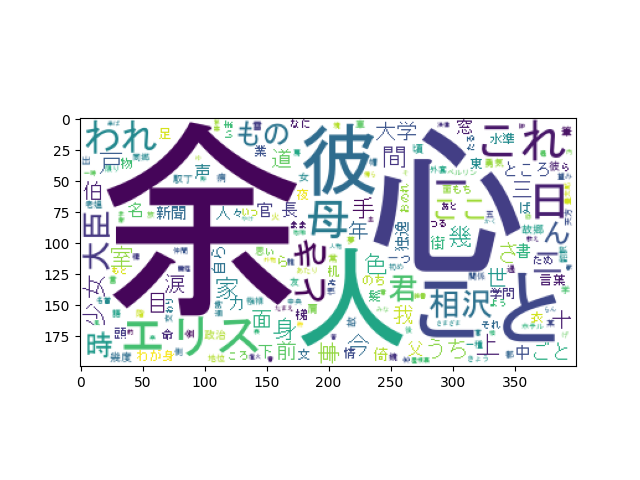
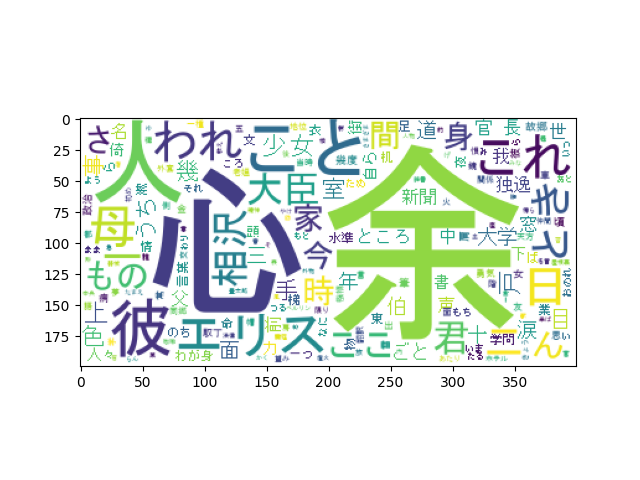
修正

Changed region(s): [[0.125, 0.25, 0.9062, 0.7812]]

diff --git a/question5_2/__init__.py b/question5_2/__init__.py
@@ -18,8 +18,8 @@ t = Tokenizer()
 token = t.tokenize(txt)
 word_list = []
 for line in token:
-    tmp = re.split('\t', str(line))
-    if '名詞' in tmp[1]:
+    tmp = re.split('\t|,', str(line))
+    if tmp[1] in "名詞":
         word_list.append(tmp[0])
 words = " ".join(word_list)
 print(words)
